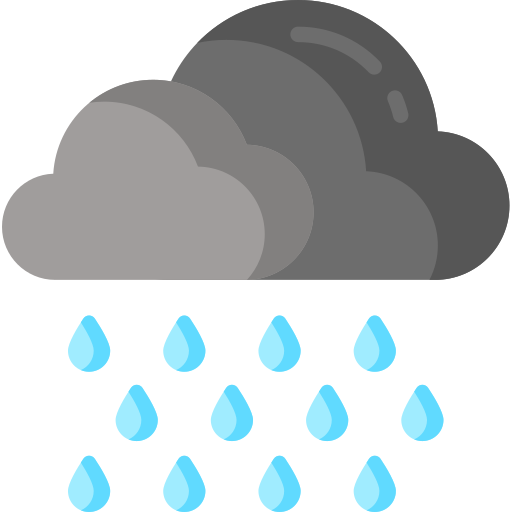
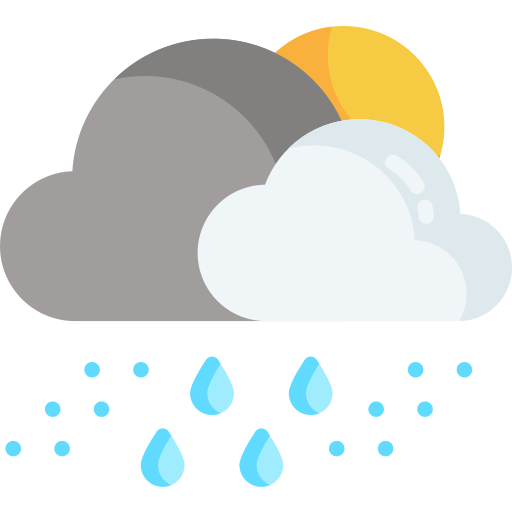
Completed Weather App

diff --git a/weather_app/lib/UI/home.dart b/weather_app/lib/UI/home.dart
@@ -5,6 +5,8 @@ import 'package:flutter/cupertino.dart';
 import 'package:flutter/material.dart';
 import 'package:http/http.dart' as http;
 import 'package:weather_app/Model/Weather.dart';
+import 'package:weather_app/Model/weather.dart' as prefix0;
+import 'package:weather_app/UI/search.dart';
 import 'package:weather_app/Util/util.dart';
 
 class Home extends StatefulWidget {
@@ -14,14 +16,10 @@ class Home extends StatefulWidget {
 
 class _State extends State<Home> {
   var _cityname = DEFAULT_CITY;
+  var _icon = "";
 
-  void showWeather() async {
+  void _showWeather() async {
     Weather data = await getWeather(_cityname);
-    print(data.name);
-    print(data.main);
-    print(data.icon);
-    print(data.desc);
-    print(data.temp);
   }
 
   @override
@@ -35,7 +33,7 @@ class _State extends State<Home> {
           IconButton(
             icon: Icon(Icons.search),
             onPressed: () {
-              showWeather();
+              goToNextScreen(context);
             },
           )
         ],
@@ -54,21 +52,7 @@ class _State extends State<Home> {
               child: Column(
                 mainAxisAlignment: MainAxisAlignment.center,
                 children: <Widget>[
-                  Padding(
-                    padding: EdgeInsets.all(64),
-                  ),
-                  Image.asset(
-                    "images/cloud.png",
-                    width: 96,
-                    height: 96,
-                  ),
-                  Padding(
-                    padding: EdgeInsets.all(12),
-                  ),
                   updateTemperatureWidget(_cityname),
-                  Padding(
-                    padding: EdgeInsets.all(12),
-                  ),
                 ],
               ),
             ),
@@ -83,7 +67,10 @@ class _State extends State<Home> {
         "http://api.openweathermap.org/data/2.5/weather?q=${city}&appid=${API_KEY}&units=metric";
     http.Response response = await http.get(url);
     final parse = json.decode(response.body);
-    return Weather.fromJson(parse);
+    final weather = Weather.fromJson(parse);
+    print(weather.icon);
+    print(prefix0.asset(weather.icon));
+    return weather;
   }
 
   Widget updateLocationWidget(String) {
@@ -115,11 +102,22 @@ class _State extends State<Home> {
               mainAxisAlignment: MainAxisAlignment.center,
               children: <Widget>[
                 ListTile(
+                  title: Image.asset(
+                    "images/${prefix0.asset(weather.icon)}.png",
+                    width: 96,
+                    height: 96,
+                  ),
+                ),
+                ListTile(
                   title: Text(
                     "${weather.temp}º C",
                     style: tempeartureStyle(),
+                    textAlign: TextAlign.center,
                   ),
-                  subtitle: Text("${weather.desc}"),
+                  subtitle: Text(
+                    "${weather.desc}",
+                    textAlign: TextAlign.center,
+                  ),
                 )
               ],
             ),
@@ -129,6 +127,20 @@ class _State extends State<Home> {
         }
       },
     );
+  }
+
+  Future goToNextScreen(
+    BuildContext context,
+  ) async {
+    Map results = await Navigator.push(context,
+        MaterialPageRoute<Map>(builder: (BuildContext context) {
+      return ChangeCity();
+    }));
+
+    if (results != null && results.containsKey("cityname")) {
+      _cityname = results["cityname"].toString();
+      _showWeather();
+    }
   }
 }
 

diff --git a/weather_app/lib/UI/search.dart b/weather_app/lib/UI/search.dart
@@ -1,13 +1,29 @@
 import 'package:flutter/material.dart';
 
-class Search extends StatefulWidget {
-  @override
-  _SearchState createState() => _SearchState();
-}
+class ChangeCity extends StatelessWidget {
+  var _cityController = TextEditingController();
 
-class _SearchState extends State<Search> {
   @override
   Widget build(BuildContext context) {
-    return Container();
+    return Scaffold(
+      appBar: AppBar(
+        title: Text("Change City"),
+      ),
+      body: ListView(
+        children: <Widget>[
+          ListTile(
+            title: TextField(
+              controller: _cityController,
+              decoration: InputDecoration(hintText: "Enter city name"),
+            ),
+          ),
+          ListTile(
+            title: RaisedButton(child: Text("Go"),onPressed: () {
+              Navigator.pop(context, {"cityname": _cityController.text.toString()});
+            },),
+          )
+        ],
+      ),
+    );
   }
 }

diff --git a/weather_app/lib/Model/weather.dart b/weather_app/lib/Model/weather.dart
@@ -16,3 +16,34 @@ class Weather {
         temp: json["main"]["temp"].toString());
   }
 }
+
+String asset(String icon) {
+  switch (icon) {
+    case "01d":
+    case "01n":
+      return "clearsky";
+    case "02d":
+    case "02n":
+      return "fewclouds";
+    case "03d":
+    case "03n":
+      return "scatteredclouds";
+    case "04d":
+    case "04n":
+      return "cloudy";
+    case "09d":
+    case "09n":
+      return "showerrain";
+    case "10d":
+    case "10n":
+      return "rain";
+    case "11d":
+    case "11n":
+      return "thunderstorm";
+    case "50d":
+    case "50n":
+      return "wind";
+    default:
+      return "cloudy";
+  }
+}

diff --git a/README.md b/README.md
@@ -21,6 +21,7 @@ This respository contains all the source code which I did while learning Flutter
  - [JSON Parsing](#json-parsing)
  - [EarthQuake App](#earthquake-app)
  - [Navigation Introduction](#navigation-introduction)
+ - [Weather App](#weather-app)
  
 ### Hello Flutter
 
@@ -108,7 +109,16 @@ Introduction to navigation and router in Flutter, how to pass values between scr
 
 [/project](/navigation_intro)
 
-![Navigation Introduction](/resources/navigation_intro_.png "Navigation Introduction")
+![Navigation Introduction](/resources/navigation_intro.png "Navigation Introduction")
+
+### Weather App
+
+Weather App which uses OpenWeatherMap API to display weather of different places.
+
+[/project](/weather app)
+
+![Weather App](/resources/weather app.png "Weather App")
+
 
 ## Contributor 
 
